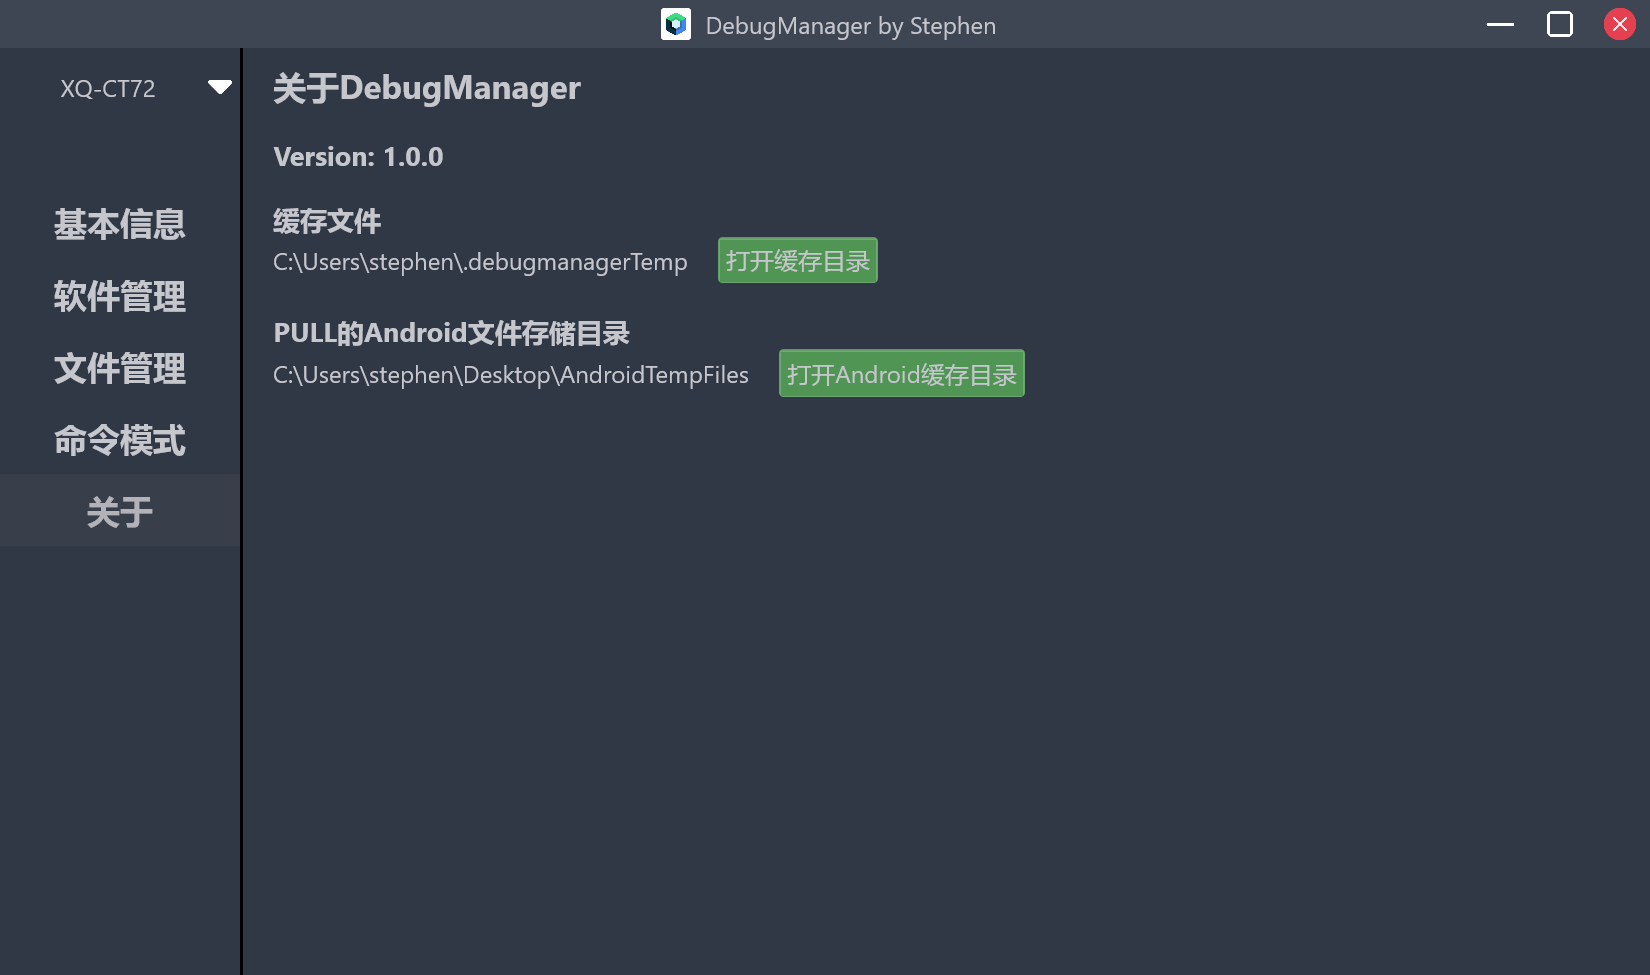
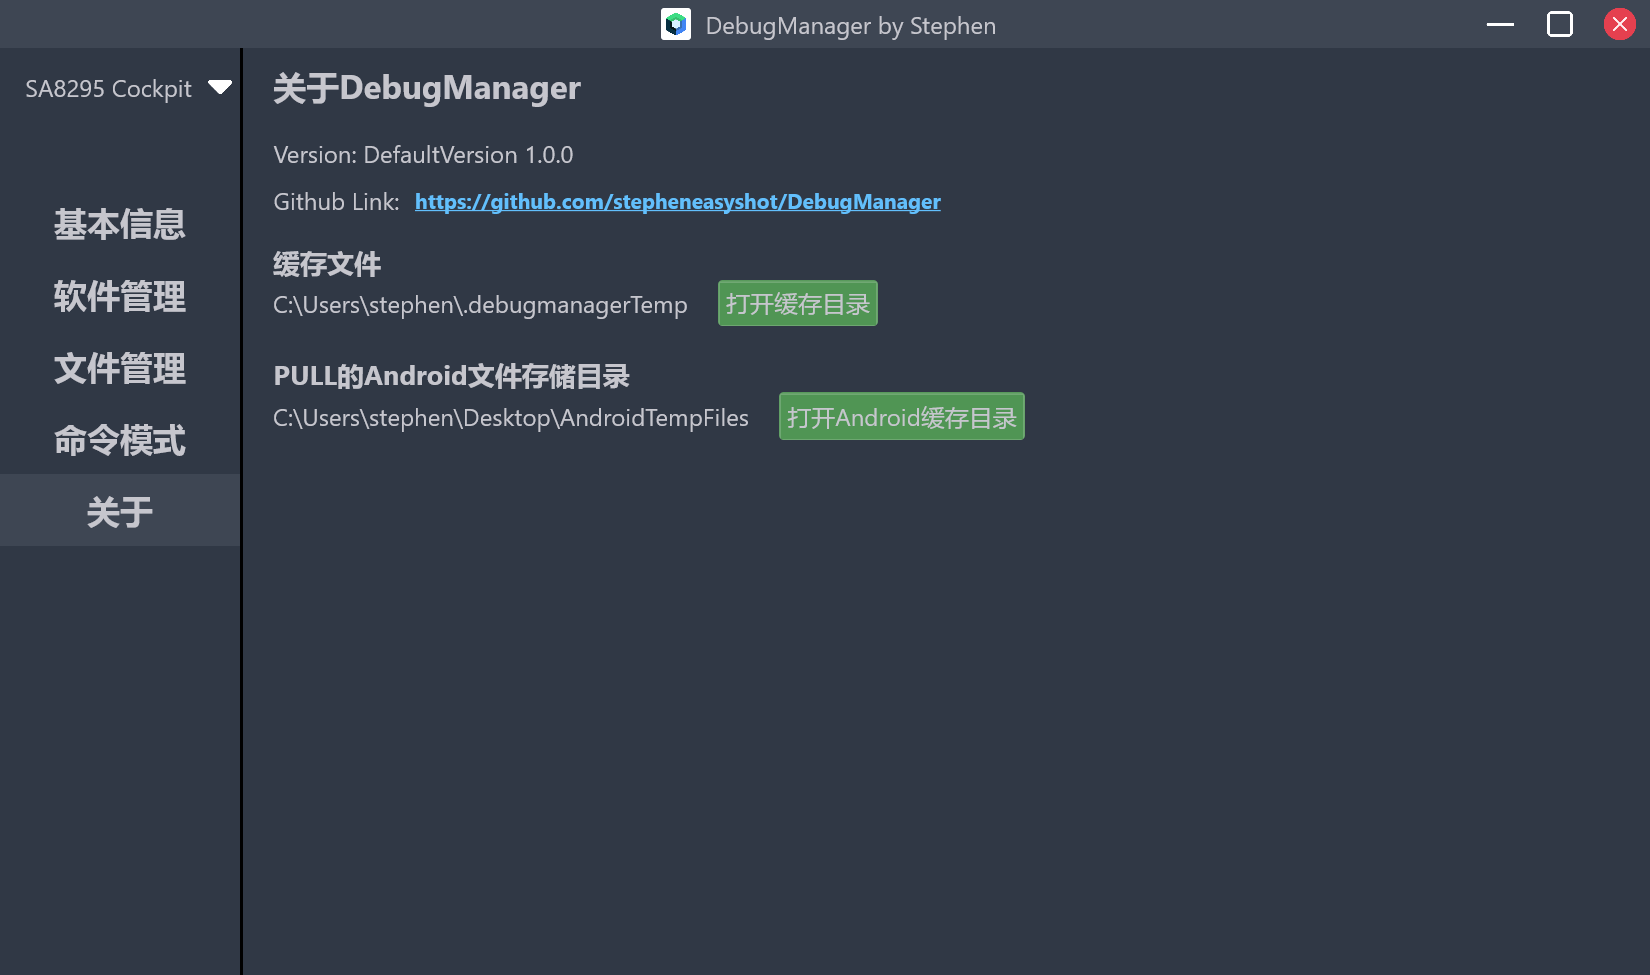
feat:加入github项目地址显示

Changed region(s): [[0.1545, 0.1538, 0.6182, 0.4615], [0.0309, 0.0615, 0.1236, 0.1231]]

diff --git a/src/main/kotlin/ui/component/ClickableLink.kt b/src/main/kotlin/ui/component/ClickableLink.kt
@@ -1,0 +1,39 @@
+package ui.component
+
+import androidx.compose.foundation.clickable
+import androidx.compose.runtime.Composable
+import androidx.compose.ui.Modifier
+import androidx.compose.ui.graphics.Color
+import androidx.compose.ui.text.TextStyle
+import androidx.compose.ui.text.font.FontWeight
+import androidx.compose.ui.text.style.TextDecoration
+import ui.theme.networkTextColor
+import java.awt.Desktop
+import java.net.URI
+
+@Composable
+fun ClickableLink(linkText: String, url: String) {
+    val toastState = rememberToastState()
+    val desktop = if (Desktop.isDesktopSupported()) Desktop.getDesktop() else null
+    CenterText(
+        text = linkText,
+        modifier = Modifier
+            .clickable {
+                // 编码URL以处理特殊字符
+                val encodedUrl = URI(url)
+                desktop?.let {
+                    if (it.isSupported(Desktop.Action.BROWSE))
+                        it.browse(encodedUrl)
+                    else
+                        toastState.show("不支持打开链接")
+                } ?: run {
+                    toastState.show("不支持打开链接")
+                }
+            },
+        style = TextStyle(
+            fontWeight = FontWeight.Bold,
+            textDecoration = TextDecoration.Underline
+        ),
+        color = networkTextColor
+    )
+}

diff --git a/src/main/kotlin/ui/pages/AboutPage.kt b/src/main/kotlin/ui/pages/AboutPage.kt
@@ -12,6 +12,7 @@ import androidx.compose.ui.unit.dp
 import org.koin.core.context.GlobalContext
 import ui.component.BasePage
 import ui.component.CenterText
+import ui.component.ClickableLink
 import ui.component.CommonButton
 import ui.theme.groupTitleText
 
@@ -23,9 +24,22 @@ fun AboutPage() {
 
         CenterText(
             "Version: ${mainStateHolder.getDebugManagetVersion()}",
-            style = groupTitleText,
-            modifier = Modifier.padding(bottom = 20.dp)
+            modifier = Modifier.padding(bottom = 10.dp)
         )
+        Row(
+            modifier = Modifier.padding(bottom = 20.dp),
+            verticalAlignment = Alignment.CenterVertically
+        ) {
+            CenterText(
+                "Github Link:",
+                modifier = Modifier.padding(end = 10.dp)
+            )
+            ClickableLink(
+                "https://github.com/stepheneasyshot/DebugManager",
+                "https://github.com/stepheneasyshot/DebugManager"
+            )
+        }
+
         CenterText("缓存文件", style = groupTitleText)
         Row(verticalAlignment = Alignment.CenterVertically, modifier = Modifier.padding(bottom = 20.dp)) {
             CenterText(

diff --git a/src/main/kotlin/ui/theme/Color.kt b/src/main/kotlin/ui/theme/Color.kt
@@ -39,3 +39,6 @@ val darkdevidelineColor = Color(0xff000000)
 val lightDevidelineColor = Color(0xff848aa1)
 
 val transparentColor = Color(0x00000000)
+
+// 网络链接颜色
+val networkTextColor = Color(0xff62bffc)
